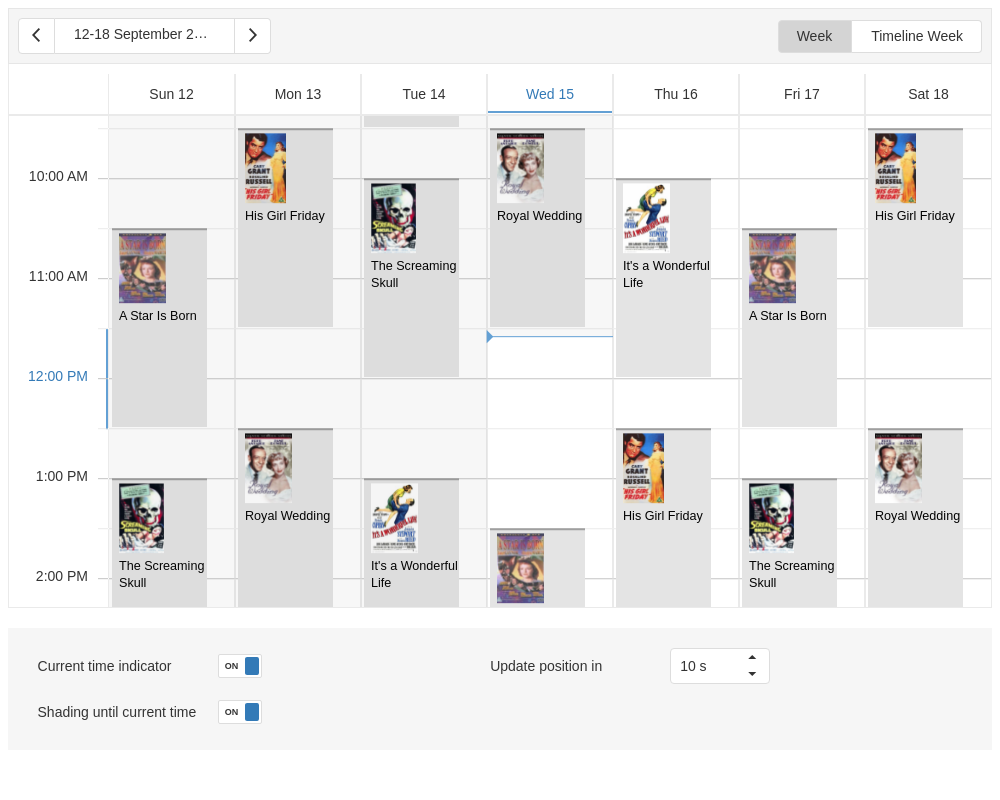
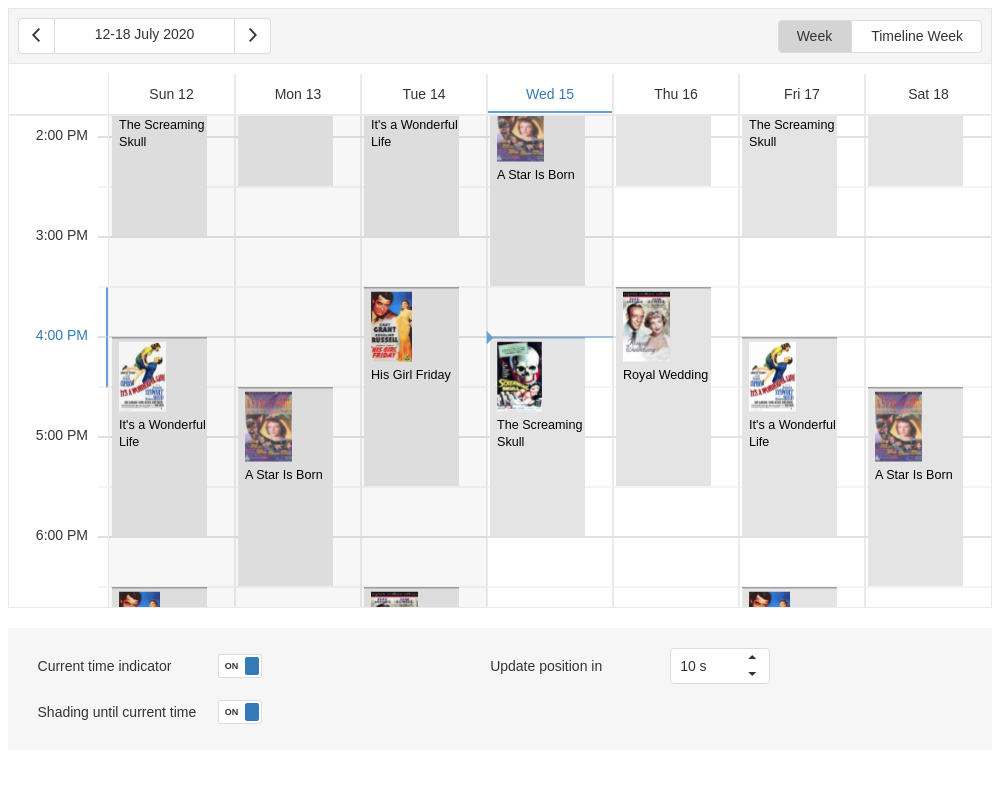
dxScheduler - mock date for time indicator demo (#1630)
* Mock date for time indicator demo

* Change date

* Replace etalon

* Remove mask

diff --git a/JSDemos/Demos/Scheduler/CurrentTimeIndicator/client-script.js b/JSDemos/Demos/Scheduler/CurrentTimeIndicator/client-script.js
@@ -1,15 +1,1 @@
-const getWednesdayThisWeek = () => {
-  const WEDNESDAY_INDEX = 3;
-
-  const date = new Date();
-
-  const currentDay = date.getDay();
-  const distance = WEDNESDAY_INDEX - currentDay;
-  date.setDate(date.getDate() + distance);
-
-  date.setHours(11, 35, 0, 0);
-
-  return date;
-};
-
-MockDate.set(getWednesdayThisWeek());
+MockDate.set(new Date(2020, 6, 15, 16));
